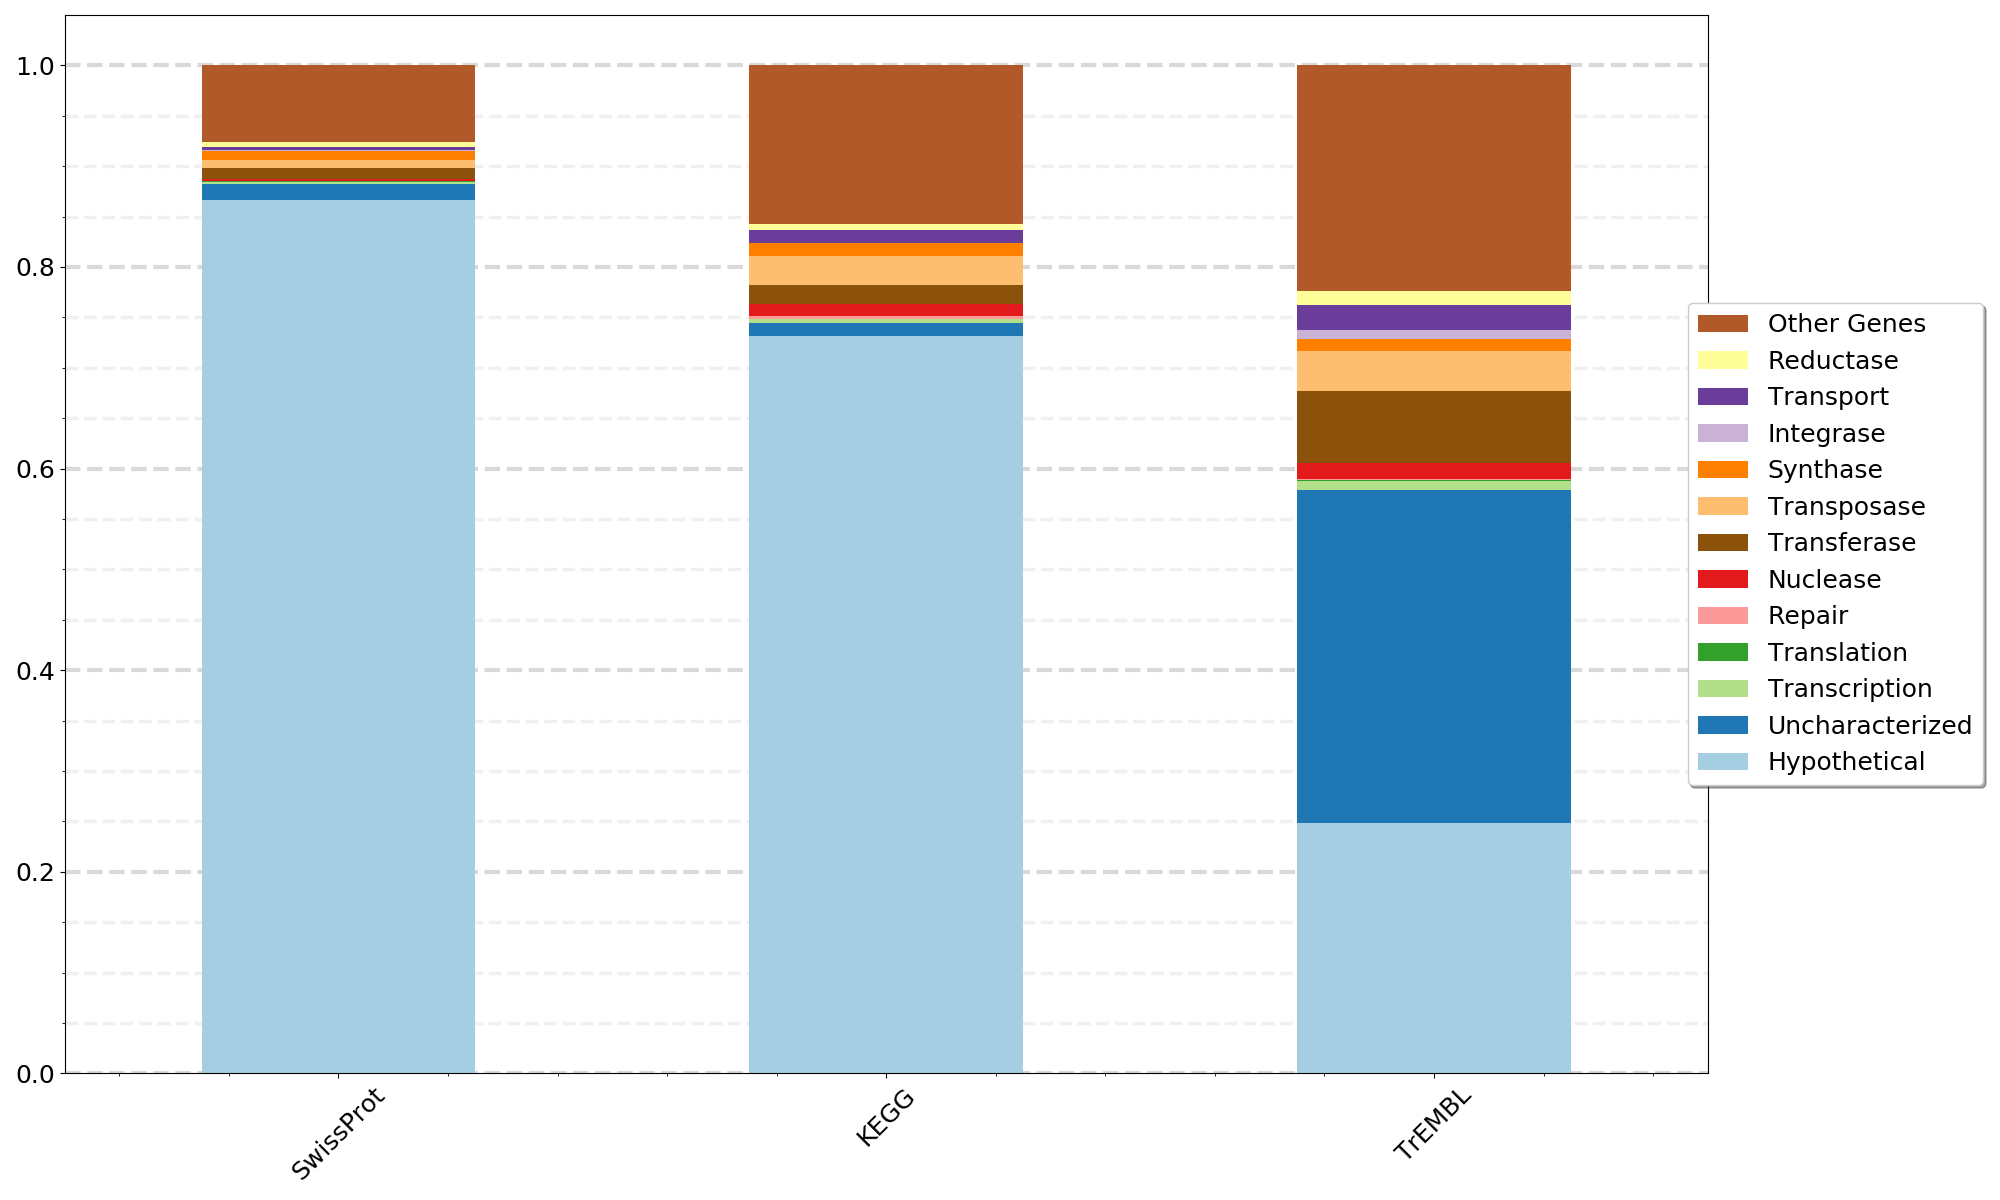
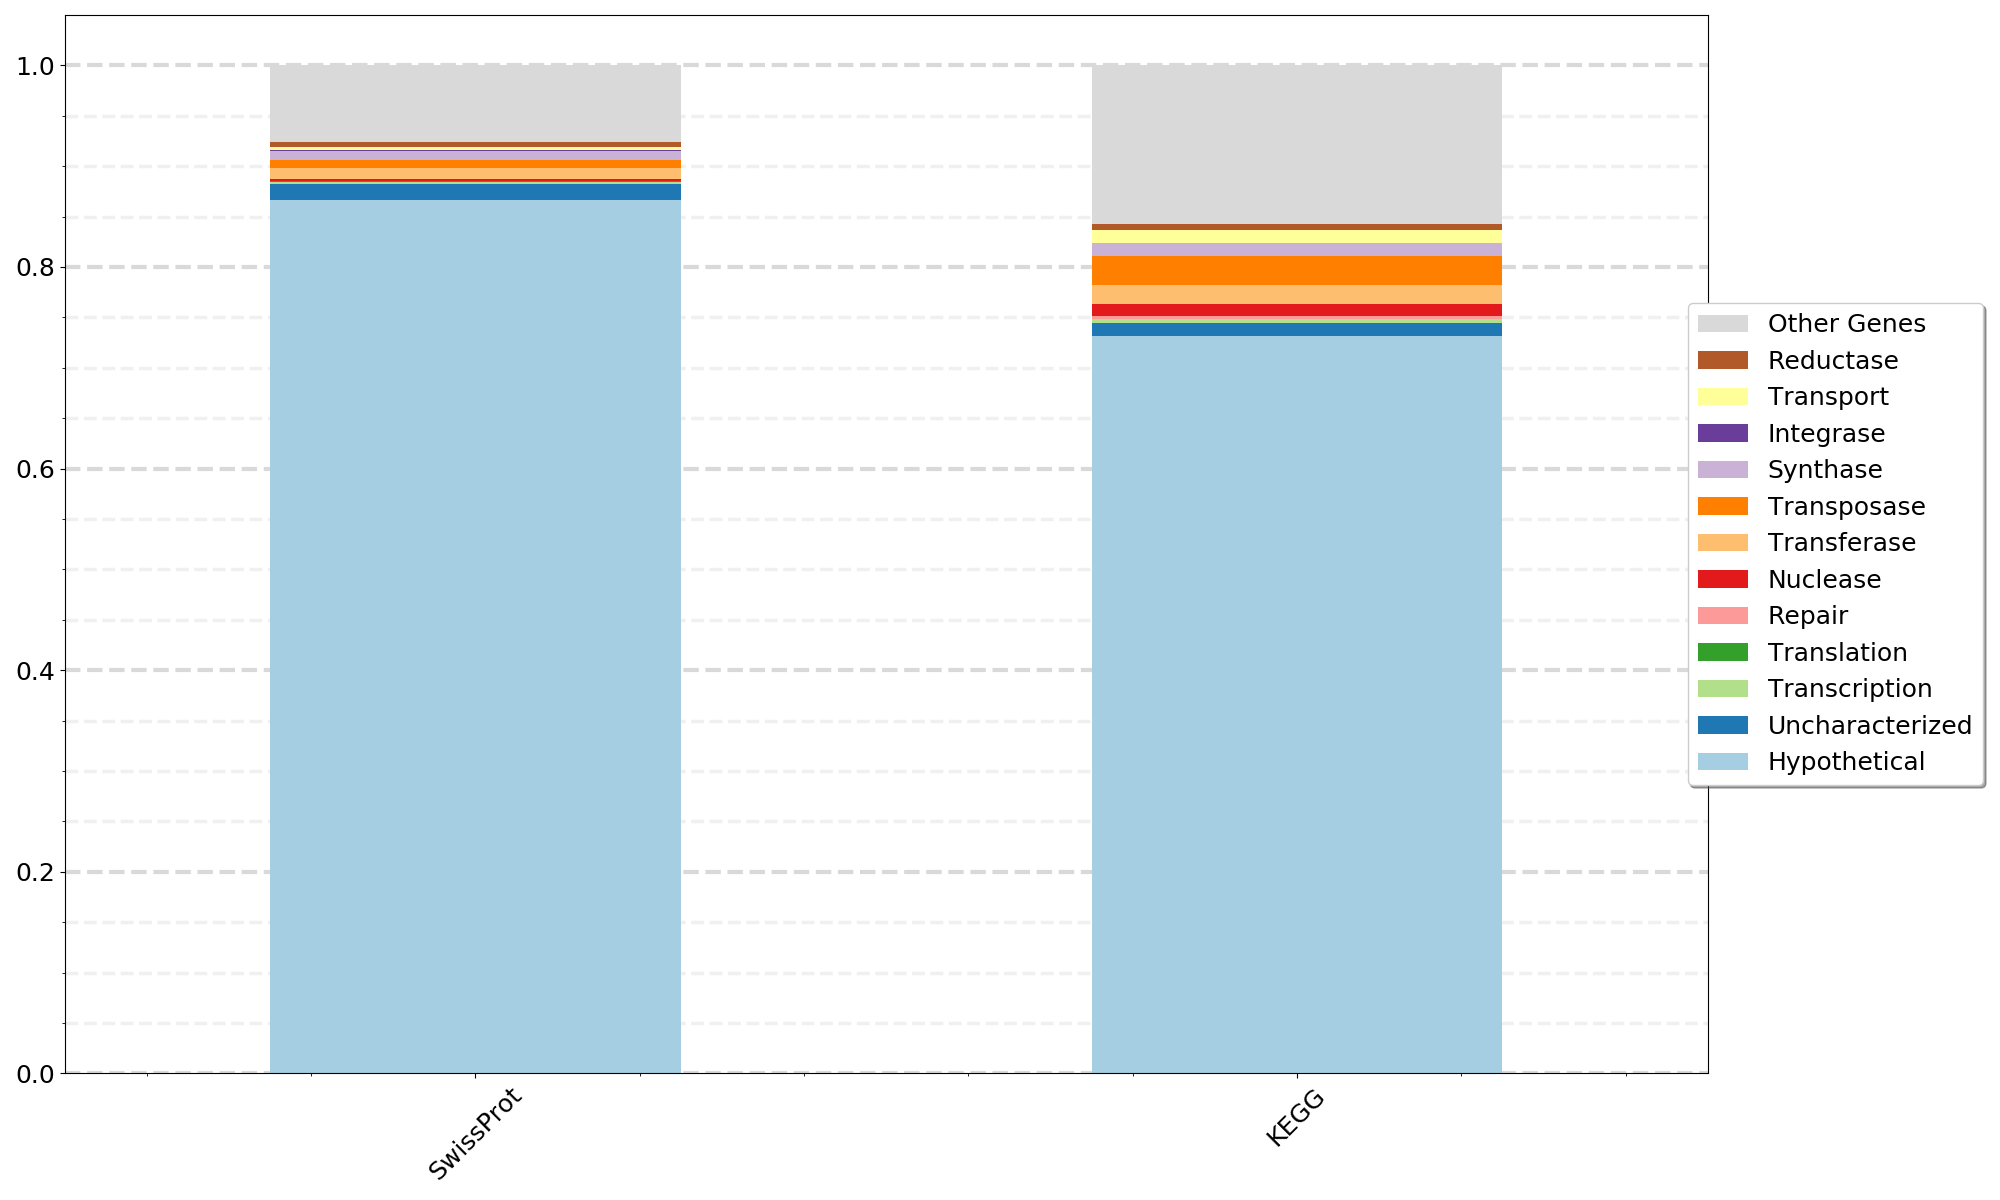
Update ReadMe / Add Colors

diff --git a/06a_CompareDatabases.py b/06a_CompareDatabases.py
@@ -108,6 +108,8 @@ def Plot_Annotation_Summary(df, gene_legend, legend_color, legend_columns, out):
     # Select colors to use. User defined or default.
     if len(legend_color) > 0:
         colors = legend_color
+        # append color for other category
+        colors.append('#d9d9d9')
     else:
         colors = [
             '#a6cee3','#1f78b4','#b2df8a','#33a02c','#fb9a99','#e31a1c',

diff --git a/07a_CompareSamples.py b/07a_CompareSamples.py
@@ -110,6 +110,8 @@ def Plot_Annotation_Summary(df, gene_legend, legend_color, legend_columns, out):
     # Select colors to use. User defined or default.
     if len(legend_color) > 0:
         colors = legend_color
+        # append color for other category
+        colors.append('#d9d9d9')
     else:
         colors = [
             '#a6cee3','#1f78b4','#b2df8a','#33a02c','#fb9a99','#e31a1c',

diff --git a/05a_Transform_Annotation_Results.py b/05a_Transform_Annotation_Results.py
@@ -86,7 +86,7 @@ def main():
         )
     parser.add_argument(
         '-a', '--Annotation_file',
-        help='The 03_*_ClstrRepSeq_Annotations_NoMatch.tsv file.',
+        help='The output file from Step 04a through 04b.',
         metavar='',
         type=str,
         required=True

diff --git a/README.md b/README.md
@@ -166,25 +166,25 @@ python 05a_Transform_Annotation_Results.py -a Step04b_Combined_Annotations_plusH
 
 This step uses a list of desired gene types to count the number of genes of that type and build a stacked bar plot of the results for each database.
 
-Create a list of gene types to count with columns "Legend Name and String to Match" separated by a comma and a space. The file should include the column names.
+Create a list of gene types to count with columns "Legend Name, String to Match, Color" separated by a comma and a space. The file should include the column names. There is a default colorset of 14 colors if you which to leave the color column blank. If you want to choose your own colors, I recomend [Color Brewer](http://colorbrewer2.org/) for help with color palettes.
 
 The plot generating script below reads the list of gene types and performs a string match. Matches are not case sensitive. Use "|" for or to count multiple variations as one type. Each gene is counted only once. Gene will be counted in the first category on the list that it matches.
 
 Example Gene_Types_List.txt
 
-    Legend Name, String to Match
-    Hypothetical, hypothetical
-    Uncharacterized, uncharacterized
-    Transcription, transcriptional|transcription|transcriptase
-    Translation, translation
-    Repair, repair
-    Nuclease, nuclease
-    Transferase, transferase
-    Transposase, transposase
-    Synthase, synthase
-    Integrase, integrase
-    Transport, transport
-    Reductase, reductase
+    Legend Name, String to Match, Color
+    Hypothetical, hypothetical, #a6cee3
+    Uncharacterized, uncharacterized, #1f78b4
+    Transcription, transcriptional|transcription|transcriptase, #b2df8a
+    Translation, translation, #33a02c
+    Repair, repair, #fb9a99
+    Nuclease, nuclease, #e31a1c
+    Transferase, transferase, #fdbf6f
+    Transposase, transposase, #ff7f00
+    Synthase, synthase, #cab2d6
+    Integrase, integrase, #6a3d9a
+    Transport, transport, #ffff99
+    Reductase, reductase, #b15928
 
 *The -c flag is to control the number of columns the legend is displayed with if your gene list gets too long.*
 
@@ -196,6 +196,9 @@ python 06a_CompareDatabases.py -i Step05_transformed_annotation_results.tsv -l G
 
 Example plot:
 ![alt text](06b_Example_plot.png "Example plot.")
+
+Example plot:
+![alt text](06c_Example_plot.png "Example plot.")
 
 ## Step 07: Plot a summary of single database results for one or more MAGs, genomes, or metagenomes.
 
